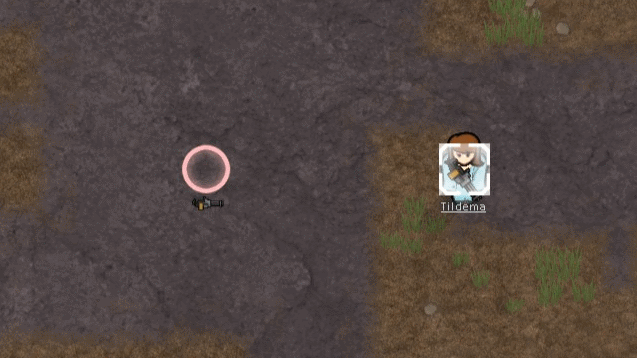
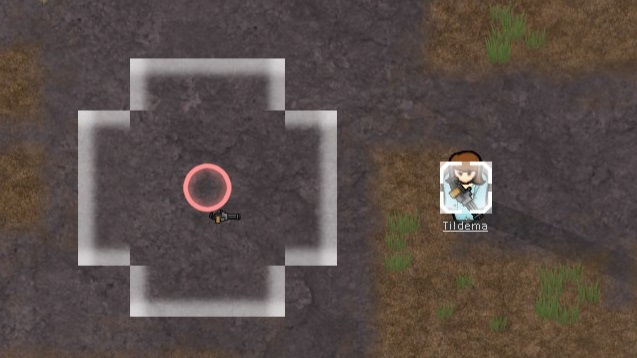
B18 release

diff --git a/README.md b/README.md
@@ -2,4 +2,4 @@
 
 ![size](https://github.com/Mehni/Minigun-Handling/blob/master/Minigun%20Handling%20Techniques/About/preview.jpg)
 
-Aim the minigun wherever you please. Target not required.
+v0.18.0.1 Targeting with the minigun now highlights the area in which the bullets will land.
